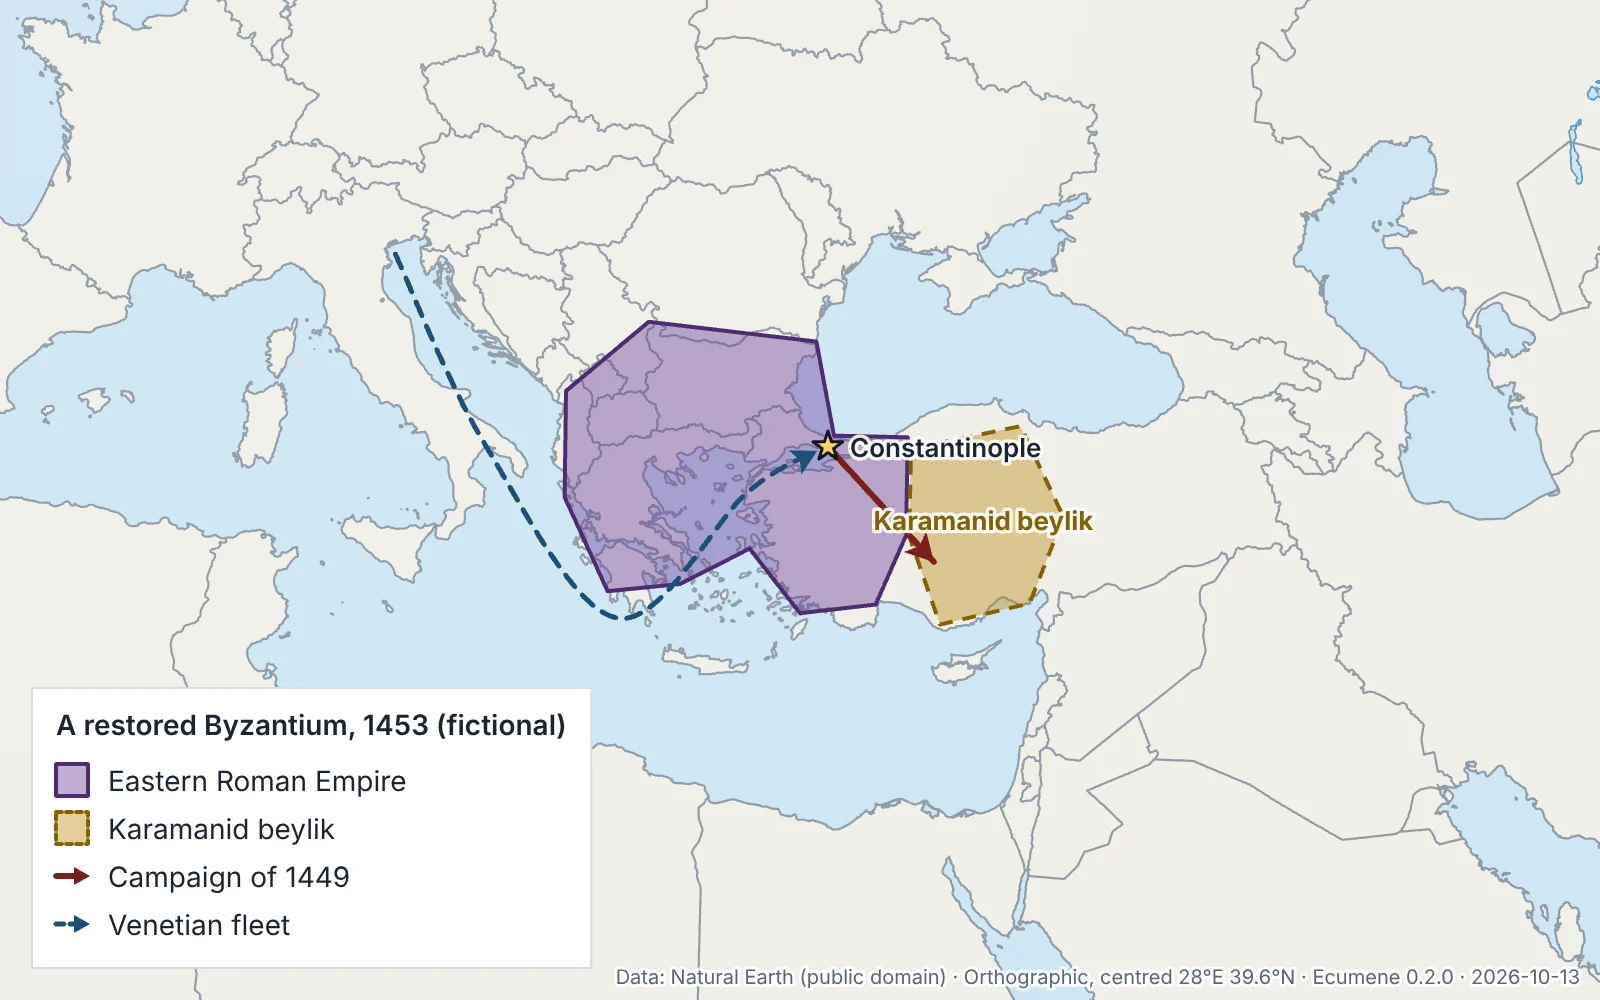
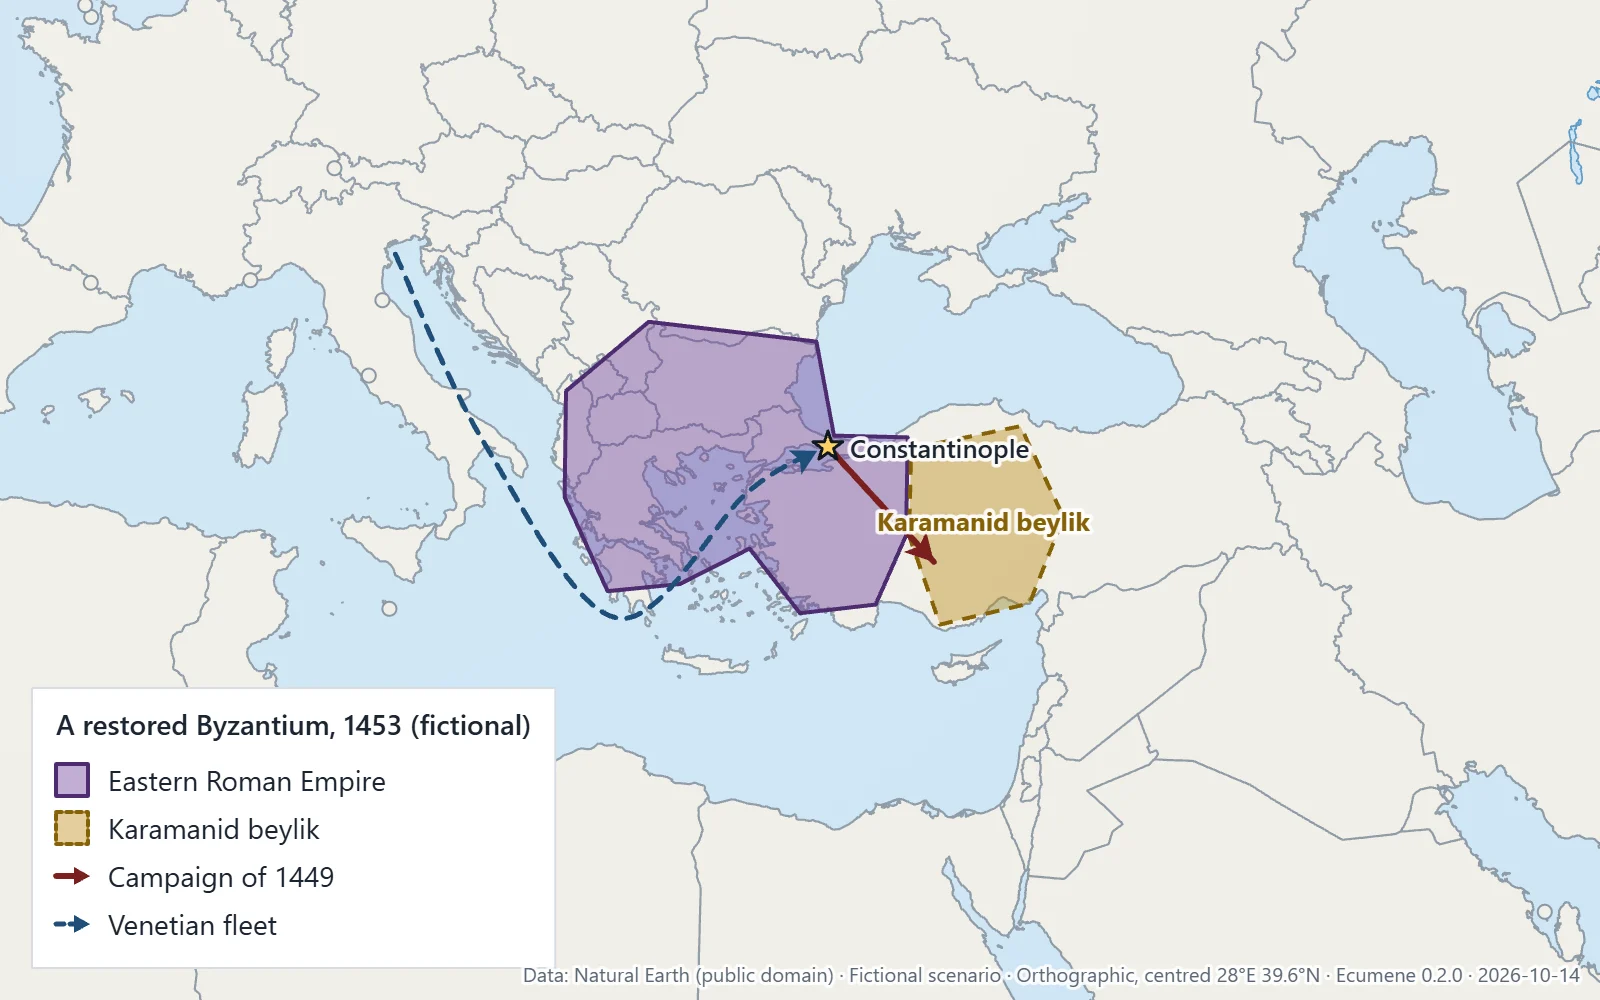
Fictional scenario: say so in the Byzantium example's SVG description and source line
A Legend-panel checkbox (saved as fi) makes the SVG description start with a plain statement that the regions, routes and events are invented and that only the country borders and coastlines underneath are real data, and adds Fictional scenario to the source line printed on the image. Only the Byzantium example turns it on; its home-page caption now says the regions and arrows are freehand and invented. The SVG title already carried (fictional) through the legend title. Tests: checkbox, SVG description, source line, map code round trip, the example, and that another example is not marked.

diff --git a/tests/e2e/fictional.spec.js b/tests/e2e/fictional.spec.js
@@ -1,0 +1,59 @@
+// Fictional scenario: the Legend panel's checkbox, what exports say, and the Byzantium example.
+const { test, expect } = require('@playwright/test');
+const { openApp, getCode, useCode, mode } = require('./helpers');
+
+test.describe.configure({ mode: 'serial' });
+
+const NOTE = 'Fictional scenario: the regions, routes and events drawn on this map are invented';
+
+test('the Legend checkbox marks the SVG description and the source line, and survives a map code', async ({ page }) => {
+  const errors = await openApp(page);
+  await mode(page, 'legend');
+  await expect(page.locator('#fic')).not.toBeChecked();
+  let svg = await page.evaluate(() => window.ecumene.svg());
+  expect(svg).not.toContain('Fictional scenario');
+  expect((await page.evaluate(() => window.ecumene.getState())).fi).toBeUndefined();
+  await page.check('#fic');
+  svg = await page.evaluate(() => window.ecumene.svg());
+  expect(svg).toContain(NOTE);
+  expect(svg).toContain('not historical borders or events');
+  expect(svg).toContain('Fictional scenario ·'); // on the source line printed on the map
+  expect((await page.evaluate(() => window.ecumene.getState())).fi).toBe(true);
+  // saved and restored with the map
+  const code = await getCode(page);
+  await mode(page, 'legend');
+  await page.uncheck('#fic');
+  expect((await page.evaluate(() => window.ecumene.getState())).fi).toBeUndefined();
+  await useCode(page, code);
+  await mode(page, 'legend');
+  await expect(page.locator('#fic')).toBeChecked();
+  expect(await page.evaluate(() => window.ecumene.svg())).toContain(NOTE);
+  // with the source note switched off the SVG description still carries it
+  await page.evaluate(() => {
+    const s = window.ecumene.getState();
+    s.lg.n = false;
+    window.ecumene.setState(s);
+  });
+  const quiet = await page.evaluate(() => window.ecumene.svg());
+  expect(quiet).toContain(NOTE);
+  expect(quiet).not.toContain('Fictional scenario ·');
+  expect(errors).toEqual([]);
+});
+
+test('the Byzantium example is marked as fictional and a map without the mark is not', async ({ page }) => {
+  const errors = await openApp(page);
+  await page.goto('/app/index.html?example=althist', { waitUntil: 'domcontentloaded' });
+  await page.waitForFunction(() => window.ecumene && document.getElementById('load').hidden, null, { timeout: 120000 });
+  const s = await page.evaluate(() => window.ecumene.getState());
+  expect(s.fi).toBe(true);
+  expect(s.lg.t).toContain('(fictional)');
+  const svg = await page.evaluate(() => window.ecumene.svg());
+  expect(svg).toContain(NOTE);
+  expect(svg).toContain('<title>A restored Byzantium, 1453 (fictional)</title>');
+  // another example is not
+  await page.goto('/app/index.html?example=eu', { waitUntil: 'domcontentloaded' });
+  await page.waitForFunction(() => window.ecumene && document.getElementById('load').hidden, null, { timeout: 120000 });
+  expect((await page.evaluate(() => window.ecumene.getState())).fi).toBeUndefined();
+  expect(await page.evaluate(() => window.ecumene.svg())).not.toContain('Fictional scenario');
+  expect(errors).toEqual([]);
+});

diff --git a/src/home/index.html b/src/home/index.html
@@ -119,7 +119,7 @@ footer p{margin:0 0 .6rem;max-width:44rem}
 <div class="plates">
 <a href="app/?example=eu"><img src="examples/eu.webp" alt="Orthographic globe centred on Europe with the 27 European Union members in green" width="800" height="500" loading="lazy"><p class="ct">The European Union</p><p class="cd">Orthographic, in the Wikipedia locator style.</p></a>
 <a href="app/?example=gdp"><img src="examples/gdp.webp" alt="World map in Equal Earth projection, countries shaded by GDP per capita in five classes" width="800" height="500" loading="lazy"><p class="ct">GDP per capita, 2022</p><p class="cd">Equal Earth. World Bank data, five classes by quantile.</p></a>
-<a href="app/?example=althist"><img src="examples/althist.webp" alt="Globe of the eastern Mediterranean showing a fictional 1453, with empires drawn as regions and campaigns as arrows" width="800" height="500" loading="lazy"><p class="ct">A restored Byzantium, 1453</p><p class="cd">A fictional scenario, drawn with freehand regions and arrows.</p></a>
+<a href="app/?example=althist"><img src="examples/althist.webp" alt="Globe of the eastern Mediterranean showing a fictional 1453, with empires drawn as regions and campaigns as arrows" width="800" height="500" loading="lazy"><p class="ct">A restored Byzantium, 1453</p><p class="cd">A fictional scenario: the regions and arrows are freehand and invented. Only the coastlines and country borders underneath are real data.</p></a>
 <a href="app/?example=uk"><img src="examples/uk.webp" alt="Lambert conformal conic map of the United Kingdom with England, Scotland, Wales and Northern Ireland outlined" width="800" height="500" loading="lazy"><p class="ct">The countries of the United Kingdom</p><p class="cd">Lambert conformal conic. Exact outlines from Natural Earth subdivisions.</p></a>
 </div>
 </div>

diff --git a/src/js/export.js b/src/js/export.js
@@ -45,13 +45,17 @@ function usedLayers() {
 /** One line printed on the map. */
 export function sourceLine(label) {
   const more = [...new Set(usedLayers().other.map((x) => x.short))];
-  return 'Data: Natural Earth (public domain)' + more.map((s) => ', ' + s).join('') + ' · ' + cap(label) + ' · Ecumene ' + VERSION + ' · ' + today();
+  return 'Data: Natural Earth (public domain)' + more.map((s) => ', ' + s).join('') + (app.fictional ? ' · Fictional scenario' : '') + ' · ' + cap(label) + ' · Ecumene ' + VERSION + ' · ' + today();
 }
 const cap = (s) => s.charAt(0).toUpperCase() + s.slice(1);
+// printed in the SVG description of a map marked as a fictional scenario (the checkbox in the Legend panel)
+const FICTIONAL_NOTE =
+  'Fictional scenario: the regions, routes and events drawn on this map are invented and are not historical borders or events. The country borders and coastlines underneath are Natural Earth’s present-day ones.';
 const LAKE_SETS = { none: 'the IJsselmeer', major: 'the IJsselmeer and the major lakes', all: 'every lake' };
 /** Fuller description embedded in SVG metadata; cuts says which lakes were cut out of the shapes (see cutShapes). */
 export function sourceDetails(label, cuts) {
   const L = [
+    ...(app.fictional ? [FICTIONAL_NOTE] : []),
     'Made with Ecumene ' + VERSION + ' (https://ecumenemaps.github.io/ecumene/) on ' + today() + '.',
     'Projection: ' + label + '.',
     'Country borders: Natural Earth 1:10m Admin 0 countries, version 4.1.0, via world-atlas 2.0.2. Public domain. French Guiana, Guadeloupe, Martinique, Mayotte, Réunion and the Caribbean Netherlands are shown apart from France and the Netherlands.',

diff --git a/src/template.html b/src/template.html
@@ -254,6 +254,8 @@ button.b,select,input[type=text],input[type=search]{min-height:40px}
 <div class="row" style="margin-top:8px"><select id="lp" aria-label="Legend position" style="width:auto;flex:1"><option value="bl">Bottom left</option><option value="br">Bottom right</option><option value="tl">Top left</option><option value="tr">Top right</option><option value="xy" hidden>Where you dragged it</option></select>
 <label class="sw2"><input id="ls" type="checkbox" checked> Show legend</label></div>
 <label class="rg">Legend size<input id="lk" type="range" min="60" max="200" step="5" value="100" aria-label="Legend size"></label>
+<label class="sw2" style="margin-top:10px"><input id="fic" type="checkbox"> Fictional scenario</label>
+<p class="hint" style="margin-top:4px">For invented regions, routes or events. Exports say so in the image's source line and in the SVG description.</p>
 <p id="cvdw" class="hint" hidden></p>
 <p class="hint">Drag the legend on the map to place it anywhere. Exports put it in the same place.</p>
 </section>

diff --git a/src/js/persist.js b/src/js/persist.js
@@ -71,6 +71,7 @@ export function getState() {
     })),
     lg: { t: L.title, p: L.pos, xy: L.xy, k: L.scale, s: L.show, n: L.note, o: L.order.filter((c) => used.has(c)) },
     ps: app.paintSet,
+    ...(app.fictional ? { fi: true } : {}),
     ds: Object.assign({}, app.data),
     r: [+app.rot[0].toFixed(2), +app.rot[1].toFixed(2)],
     z: +app.zoom.toFixed(2),
@@ -200,6 +201,7 @@ export function setState(o) {
   L.order = Array.isArray(lg.o) ? lg.o.filter(paintOk).map((c) => c.toLowerCase()) : [];
   // paint swatch set and color-by-data settings (maps saved before them get the defaults)
   app.paintSet = PAINT_SETS[o.ps] ? o.ps : 'Default';
+  app.fictional = o.fi === true;
   const ds = o.ds && typeof o.ds === 'object' ? o.ds : {};
   Object.assign(app.data, {
     scale: SCALES[ds.scale] ? ds.scale : 'Blues',

diff --git a/src/js/store.js b/src/js/store.js
@@ -95,6 +95,7 @@ export const app = {
   // pos: corner; xy: dragged position as fractions of the frame (null = use the corner); scale: size
   legend: { title: '', pos: 'bl', xy: null, scale: 1, show: true, note: true, order: [] },
   legendRect: null, // where the legend was last drawn on screen
+  fictional: false, // the map shows an invented scenario: exports say so (source line and SVG description)
 
   // export settings (projection key from projections.js, 'screen' or 'world', width in px or 0 = automatic)
   exportOpts: { proj: 'ortho', area: 'screen', width: 0 },

diff --git a/scripts/make_examples.js b/scripts/make_examples.js
@@ -39,6 +39,7 @@ const EXAMPLES = {
     await page.evaluate(() => {
       const s = window.ecumene.getState();
       s.lg = { t: 'A restored Byzantium, 1453 (fictional)', p: 'bl', s: true };
+      s.fi = true; // exports say it is a fictional scenario (the Legend panel's checkbox)
       s.g = [
         { t: 'region', c: '#6a3d9a', o: 0.42, w: 2, l: 'Eastern Roman Empire', n: false, s: 15,
           p: [[19.6, 42.2], [22.4, 44.2], [28.6, 43.8], [29.2, 41.3], [31.8, 41.2], [31.6, 38.6], [30.5, 36.8], [28, 36.6], [26.3, 38.3], [24, 37.3], [21.6, 37], [19.9, 39.4]] },

diff --git a/src/js/ui-legend.js b/src/js/ui-legend.js
@@ -83,6 +83,7 @@ export function initLegendPanel() {
     L.show = e.target.checked;
     redraw();
   };
+  $('fic').onchange = (e) => (app.fictional = e.target.checked);
   $('lk').oninput = (e) => {
     L.scale = +e.target.value / 100;
     redraw();
@@ -98,6 +99,7 @@ export function initLegendPanel() {
     $('lt').value = L.title;
     syncPos();
     $('ls').checked = L.show;
+    $('fic').checked = app.fictional;
     $('lk').value = Math.round(L.scale * 100);
   });
   render();

diff --git a/HANDOFF.md b/HANDOFF.md
@@ -56,6 +56,7 @@ Conventions: modules share state only through `app`; UI panels re-render on even
 - Lakes in SVG export: every lake lies inside a country polygon in the countries layer (and inside subdivisions). Export cuts the lakes the map shows (always-water, plus major or all by the Lakes setting) out of each country path and painted subdivision (`scripts/lib/cut.js`, cached per setting), so the shapes stop at the shore; borders still come from the original topology. The clipper (`polygon-clipping`) is a separate `app/clip.js`, loaded on the first export. Cutting is planar in lon/lat: pieces get continuous longitudes (rings round a pole are closed through it), everything is snapped to 1e-5° (unsnapped, Brazil fails), long edges get points along their great circle first, and points the clipper drops along straight lon/lat runs (Sudan's 22°N border) are put back. A piece that cannot be cut is kept whole and named in `<desc>`; `tests/unit/cut.test.mjs` cuts every country and subdivision file at every setting so that does not happen. A whole-world map at Lakes = All cuts in about 1.5 s on a desktop. Globe PNGs are unaffected (they come from the GL render, where lakes are drawn over the land).
 - Subdivisions: Natural Earth 10m admin-1, one TopoJSON per country in `admin1/`, fetched on demand. Each unit has `id` (its position in Natural Earth's list for that country, which exact outlines save) and `c` (`adm1_code`, unique, which painted units save). Units of the overseas parts move out of France and the Netherlands into their own entries (the Caribbean Netherlands gets Bonaire, Saba and Sint Eustatius; the French regions are single units and paint whole); the parent's other units keep their ids, so ids can have gaps. Where no unit covers part of a country (the north of Åland's main island, Argentina's side of the Southern Patagonian Ice Field, small areas of India, China, Palestine, Croatia, the US, the Philippines, Bhutan and Antarctica), the build adds one more unit, "Rest of <country>" with code `<file>+0` (for example `ALD+0`): the country minus its units with `polygon-clipping` (also used by SVG export, see above), dropping slivers under 10 km² or under 1 km wide. Countries across 180° get continuous longitudes first, and a piece the clipper cannot handle is redone in 1° tiles, quartered down to 1/8° (only one 1/8° tile of Chilean fjord is skipped). The Baikonur and Guantánamo Bay units belong to Kazakhstan and Cuba, listed after their own units so ids do not move.
 - Exact outlines (`t:'shape'`) are saved by reference (`{k:'c',names}` or `{k:'a1',c,ids}`), never by coordinates, and rebuilt with `topojson.merge`.
+- Fictional scenario: `app.fictional`, saved as `fi: true` (absent otherwise), set by the Legend panel's "Fictional scenario" checkbox. When on, the SVG description starts with "Fictional scenario: the regions, routes and events drawn on this map are invented and are not historical borders or events. The country borders and coastlines underneath are Natural Earth's present-day ones." and the source line printed on the image says "Fictional scenario" (the source line can be switched off in Export; the SVG description cannot). The SVG `<title>` is the legend title, so the Byzantium example's already reads "(fictional)". Only the "A restored Byzantium, 1453" example sets it; its regions are freehand polygons and its arrows and dates are invented (the home-page caption says so). The checkbox exists so that anyone who edits that example into a real map can clear the label.
 
 - Other subdivision layers (#37): each comes from an entry in `scripts/sources/` (publisher, edition, licence, exact credit, download URL and SHA-256, which fields hold code, name and groupings). `scripts/fetch_sources.js` downloads the raw file from the mirror release `data-sources` (checksum-named assets, never replaced; `--origin` fetches from the publisher, records the new checksum and stages the file in `data/src/mirror/` for `gh release upload data-sources`). `scripts/build_layers.js` fits every unit to the Natural Earth country outline (units wholly inside are kept as published; others are cut back to the coast, dropping pieces under 0.5 km²), orients polygons for d3 by area (ArcGIS winds the other way), and writes `data/layers/<id>/<file>.json` plus `data/layers/index.json` (per country: id, menu name, unit word, edition, file, count, groupings, credit). The editor reads the index at start; a country with several layers shows "Layer for <country>" in the paint panel and in the outline picker. Codes of a layer's units carry its id (`gb-wpc-2024:E14001063`), so saved maps (`u`) need no new field and Natural Earth codes are unchanged; exact outlines save the layer as `ref.y`. A country is painted with one layer at a time: its layer is that of its paint, else the one chosen; switching clears the other layer's paint after asking, as one undo step. Exports credit each layer used (title, edition, URL, credit in `<desc>`; the short credit on the source note). The README sources table is generated from `scripts/sources` (`node scripts/fetch_sources.js --readme`) and a test checks it. A source can have several `parts` (the UK county layers join Great Britain from OS Boundary-Line and Northern Ireland from OSNI); a part's download can `extract` one Shapefile layer from a zip archive (OS ships Boundary-Line as one 737 MB archive: `--origin` keeps it in `data/src/cache/`, converts the layer with mapshaper and stores gzipped GeoJSON, so the mirror holds 18 MB). Fields can merge pieces by name (`dissolve`: OS splits Carnarvonshire into 8, Tailte Éireann a constituency into dozens), tidy names (`case: "title"` for names in capitals, `strip` a regex such as " Council$" or a seat count), use `"@slug"` codes for name-only data, and take groupings from a field, from the code's first letter, or from the Natural Earth admin-1 unit under the unit's centre (`"from": "ne-admin1"`). `simplify` passes mapshaper options (150 m for full-detail sources). The build stops if a unit loses its shape, and where one unit lies inside another in the source (Tailte Éireann's generalised Cork County covers Cork City) it cuts the smaller out of the larger and says so; any other overlap stops it. Layers (#10): UK Westminster constituencies 2024 (650), counties and unitary authorities December 2025 (218, ONS), ceremonial counties (97: England, Wales's preserved counties, Scotland's lieutenancy areas, Northern Ireland's six counties since its county boroughs are not in the open data), historic counties (94, 1888/1889 plus Northern Ireland's six); Ireland counties (26), local authority areas (31) and Dáil constituencies 2023 (43), all Tailte Éireann. Each file is 114-374 KB and covers 98.8-99.4% of its country on the map. Postcode areas are left out: no current open boundaries exist (see #10). A part can also `filter` features (`{field, in}` or `{field, notIn}`: the Census county file has the territories, which are their own countries on the map) and `lookup` field values (state FIPS codes to names), and a name can be a template of fields (`"{STATEFP} {CD119FP}"`) with `replace` rules ("Alaska 00" becomes "Alaska (at-large)"). US layers (#11, U.S. Census Bureau 2024 cartographic boundaries 1:5M, public domain): counties and equivalents of the 50 states and DC (3,144, grouped by state, 1,974 KB, so its source sets `maxKB` 2000), congressional districts of the 119th Congress (436 with DC's delegate), and Puerto Rico's 78 municipios (Natural Earth has none). Layer files are quantised to about 1e-4° whatever their extent (a fixed 1e5 steps across the US, nearly 360° wide because of the Aleutians, moved Alaska's fjord coasts off the land). In headless tests the US counties take 5-7 s to show because SwiftShader renders each frame slowly; on a real GPU they are ready in about 220 ms with 5 ms frames.
 
